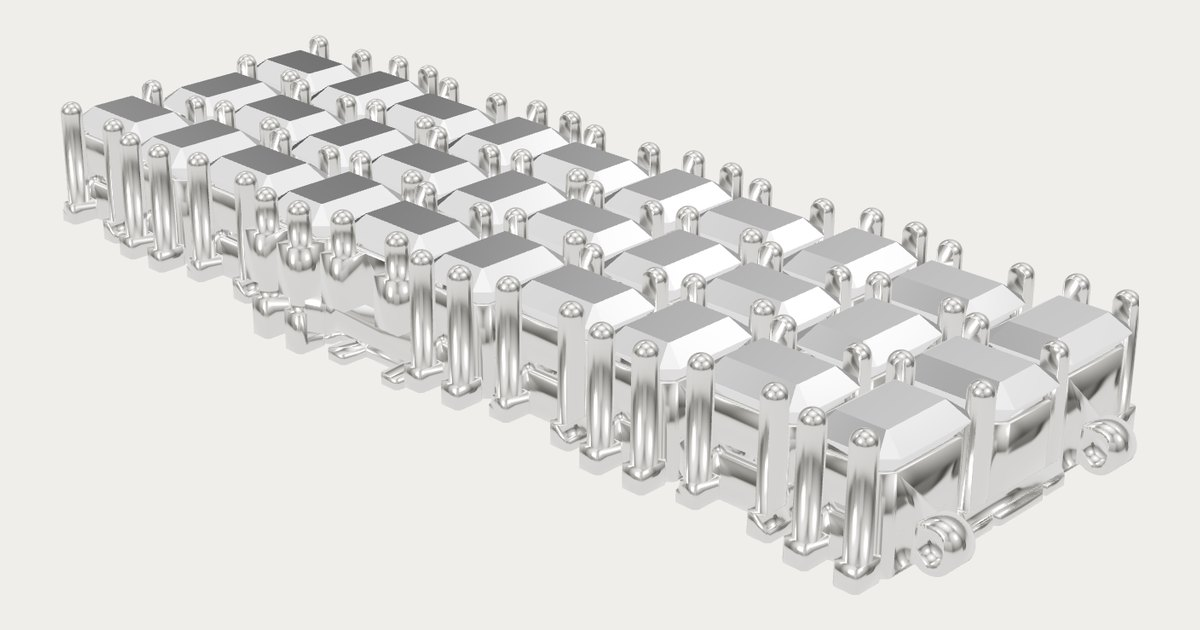
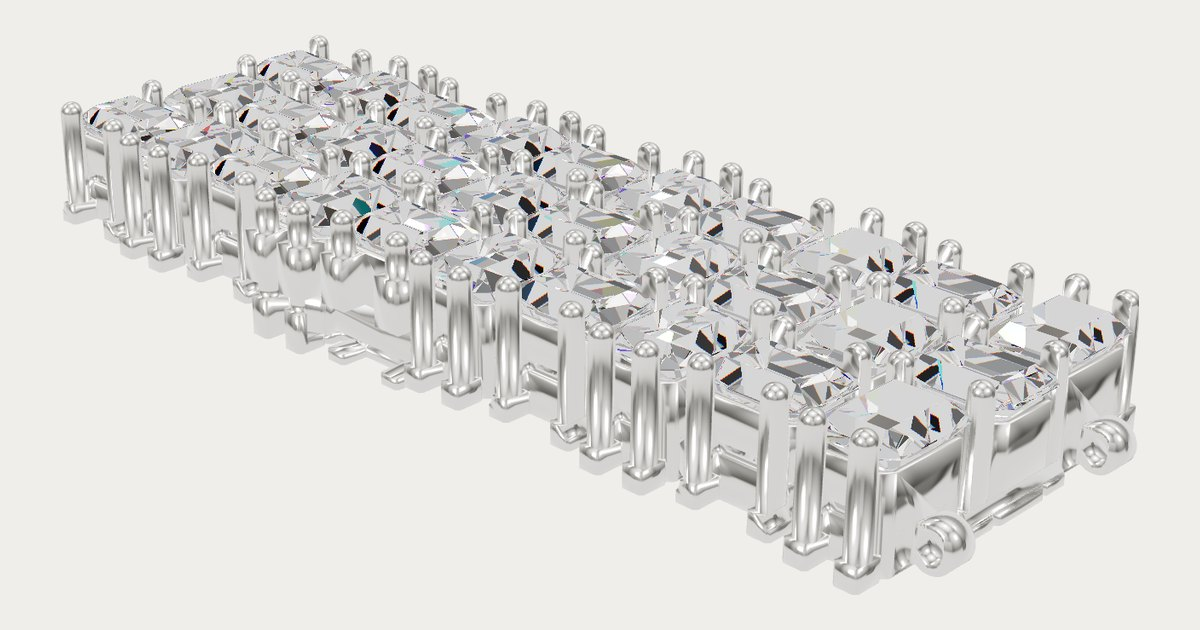
Publish baguette-tennis-v2-flat

Changed region(s): [[0.0617, 0.0603, 0.9558, 0.754]]

diff --git a/baguette-tennis-v2-flat/index.html b/baguette-tennis-v2-flat/index.html
@@ -11,7 +11,7 @@
 <meta property="og:title" content="צמיד טניס בגט · גרסה 2">
 <meta property="og:description" content="מקרוב · הסוגר ו-7 חוליות">
 <meta property="og:url" content="https://israelbitton-web.github.io/jewelry-3d/baguette-tennis-v2-flat/">
-<meta property="og:image" content="https://israelbitton-web.github.io/jewelry-3d/baguette-tennis-v2-flat/preview.jpg?v=1793551533">
+<meta property="og:image" content="https://israelbitton-web.github.io/jewelry-3d/baguette-tennis-v2-flat/preview.jpg?v=1793552130">
 <meta property="og:image:width" content="1200">
 <meta property="og:image:height" content="630">
 <meta name="twitter:card" content="summary_large_image">
@@ -299,7 +299,7 @@ const CAPTURE = Q.has('capture');
 const CSIZE = +(Q.get('size') || 1080);
 if (CAPTURE) document.body.classList.add('capture');
 const CFG = await fetch('config.json', { cache: 'no-cache' }).then((r) => r.ok ? r.json() : {}).catch(() => ({}));
-const BUILD = '1793551533';
+const BUILD = '1793552130';
 if (CFG.v && BUILD !== '__BUILD__' && CFG.v !== BUILD && Q.get('r') !== CFG.v) { const u = new URL(location.href); u.searchParams.set('r', CFG.v); location.replace(u); }
 // language: every text on the page in one table; the switch (he / fr / en) rewrites all of it, details included.
 // start = ?lang=, then the visitor's last choice, then config "lang" ("auto" = the phone's language; default Hebrew)
